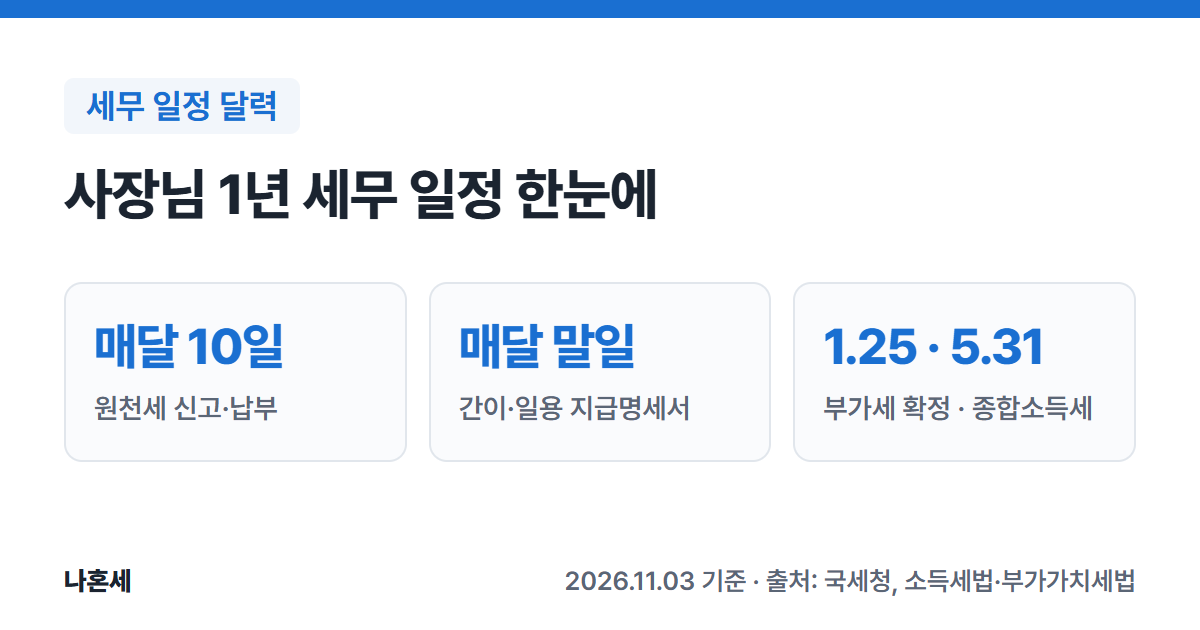
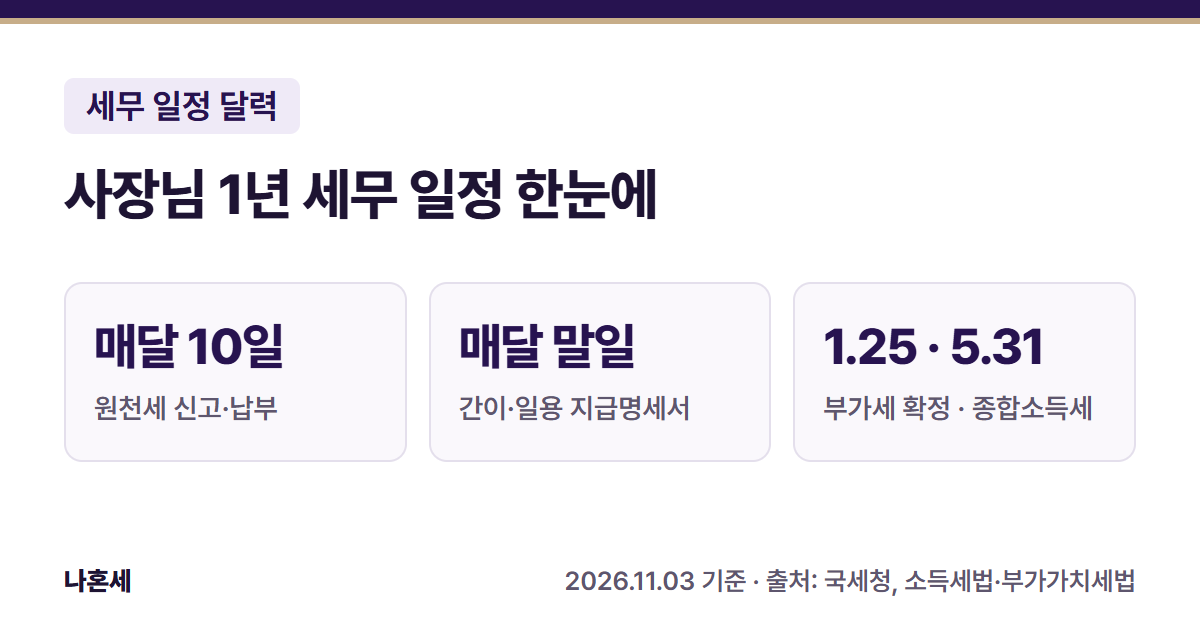
요약 카드 색을 나혼세 보라·금색으로 변경, 모바일 검사 목록에 첫 글 추가

diff --git a/_tools/card.html b/_tools/card.html
@@ -15,16 +15,16 @@
 <meta charset="utf-8">
 <link rel="stylesheet" href="https://cdn.jsdelivr.net/gh/orioncactus/pretendard@v1.3.9/dist/web/static/pretendard.min.css">
 <style>
-  :root { --brand: #1a6fd1; --ink: #1b2430; --sub: #5b6676; --line: #e1e6ec; --soft: #f2f6fb; }
+  :root { --brand: #271350; --gold: #c7ad89; --ink: #1e1433; --sub: #5e566e; --line: #e4dfec; --soft: #efeaf7; }
   * { box-sizing: border-box; margin: 0; padding: 0; }
   html, body { width: 1200px; height: 630px; overflow: hidden; background: #fff; }
   body { font-family: "Pretendard", "Malgun Gothic", sans-serif; color: var(--ink); word-break: keep-all; }
-  .card { position: relative; width: 1200px; height: 630px; padding: 60px 64px 0; border-top: 18px solid var(--brand); }
+  .card { position: relative; width: 1200px; height: 630px; padding: 60px 64px 0; border-top: 18px solid var(--brand); box-shadow: inset 0 6px 0 var(--gold); }
   .label { display: inline-block; font-size: 34px; font-weight: 700; color: var(--brand); background: var(--soft);
            padding: 8px 22px; border-radius: 10px; }
   h1 { margin-top: 26px; font-size: 56px; line-height: 1.25; font-weight: 800; letter-spacing: -1px; }
   .stats { display: flex; gap: 22px; margin-top: 52px; }
-  .stat { flex: 1; min-width: 0; border: 2px solid var(--line); border-radius: 18px; padding: 34px 28px; background: #fafbfd; }
+  .stat { flex: 1; min-width: 0; border: 2px solid var(--line); border-radius: 18px; padding: 34px 28px; background: #faf8fc; }
   .stat .v { font-size: 50px; font-weight: 800; color: var(--brand); letter-spacing: -1.5px; line-height: 1.15; white-space: nowrap; }
   .stat .k { margin-top: 14px; font-size: 28px; font-weight: 600; color: var(--sub); line-height: 1.3; }
   .foot { position: absolute; left: 64px; right: 64px; bottom: 34px; display: flex; justify-content: space-between;

diff --git a/_tools/mobile-check.html b/_tools/mobile-check.html
@@ -1,7 +1,7 @@
 <!doctype html><html><body><pre id="out"></pre>
 <script>
 // 검사할 글 주소(/YYYY/MM/DD/ 다음 부분). 새 글을 쓰면 여기에 추가
-const posts=[];
+const posts=["2026/11/03/tax-calendar-for-small-business"];
 const out=document.getElementById('out');
 window.addEventListener('message',e=>{out.textContent+=e.data+"\n";});
 posts.forEach(p=>{
